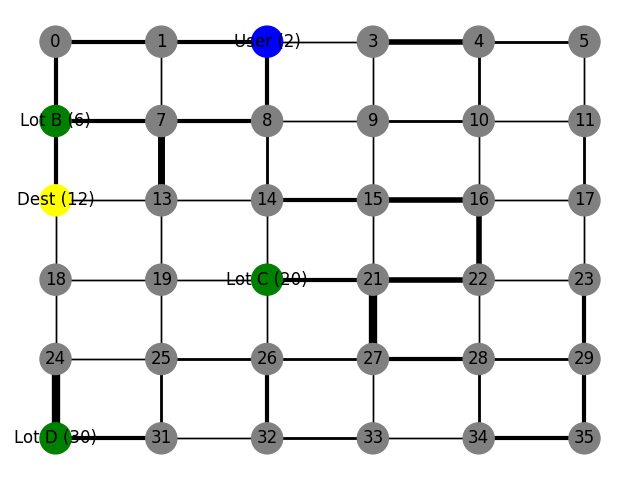
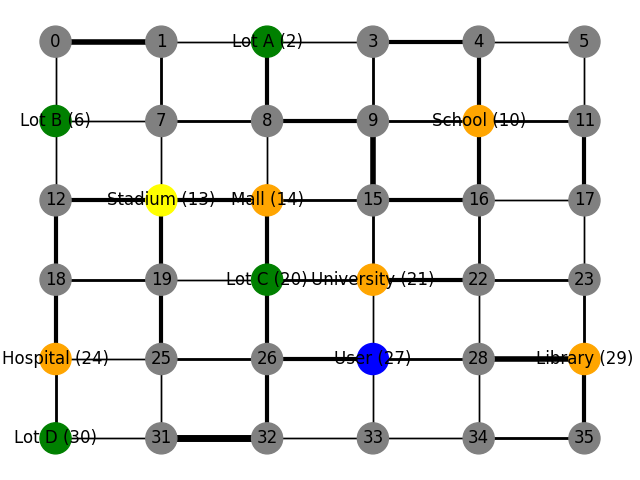
Wed, Apr 30, 2025, 6:11 PM -04:00

diff --git a/visualize.py b/visualize.py
@@ -1,11 +1,14 @@
 import matplotlib.pyplot as plt
 import networkx as nx
 
-# This was made with the help of ChatGPT to demonstrate how my code works
 def show_city_map(G, parking_lots, user_node, destination_node, path=None, size=6):
     pos = {i * size + j: (j, -i) for i in range(size) for j in range(size)}  # grid layout
     colors = []
     labels = {}
+
+    # Invert the destinations dictionary to look up names by node
+    from destination_data import destinations
+    destination_names_by_node = {v: k.capitalize() for k, v in destinations.items()}
 
     for node in G.nodes():
         if node == user_node:
@@ -13,11 +16,15 @@ def show_city_map(G, parking_lots, user_node, destination_node, path=None, size=
             labels[node] = f"User ({node})"
         elif node == destination_node:
             colors.append("yellow")
-            labels[node] = f"Dest ({node})"
+            # Use name from the reversed dictionary
+            labels[node] = f"{destination_names_by_node.get(node, 'Dest')} ({node})"
         elif node in parking_lots:
             lot = parking_lots[node]
             colors.append("green" if lot["parked"] < lot["capacity"] else "red")
             labels[node] = f"{lot['name']} ({node})"
+        elif node in destination_names_by_node:
+            colors.append("orange")  # optional: mark other destinations too
+            labels[node] = f"{destination_names_by_node[node]} ({node})"
         else:
             colors.append("gray")
             labels[node] = str(node)

diff --git a/destination_data.py b/destination_data.py
@@ -1,9 +1,9 @@
 
 destinations = {
     "hospital": 24,
-    "library": 18,
-    "mall": 12,
-    "school": 7,
-    "stadium": 0,
+    "library": 29,
+    "mall": 14,
+    "school": 10,
+    "stadium": 13,
     "university": 21
 }
